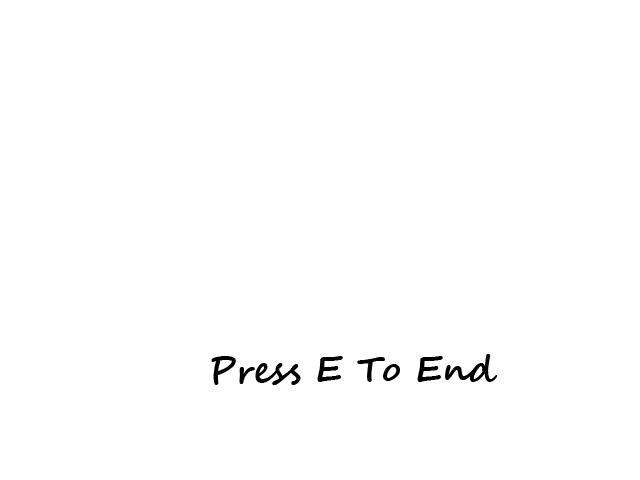
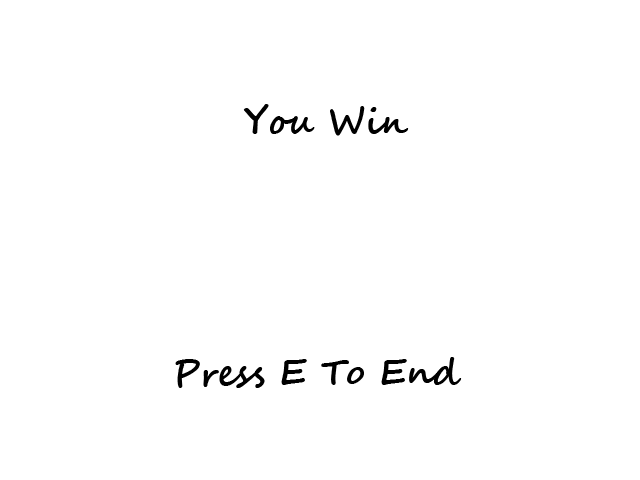
fix actor start facing, modify end words

Changed region(s): [[0.25, 0.7188, 0.7812, 0.8125], [0.375, 0.2188, 0.625, 0.2812]]

diff --git a/GP_hw1/hw03.cpp b/GP_hw1/hw03.cpp
@@ -276,7 +276,7 @@ void FyMain(int argc, char **argv)
 	FnCharacter actor;
 	actor.ID(actorID);
 	pos[0] = 3598.0f; pos[1] = -3907.0f; pos[2] = 1000.0f;
-	fDir[0] = -0.284f; fDir[1] = -0.954f; fDir[2] = -0.1f;
+	fDir[0] = -1.0f; fDir[1] = 0.0f; fDir[2] = 0.0f;
 	uDir[0] = 0.0f; uDir[1] = 0.0f; uDir[2] = 1.0f;
 	actor.SetDirection(fDir, uDir);
 	actor.SetTerrainRoom(terrainRoomID, 10.0f);
@@ -549,9 +549,6 @@ void GameAI(int skip)
 		//slash effect
 		if (skill_camera_timer > 80){
 			FnGameFXSystem gxS(lyfxID);
-			FnObject actorWeapon;
-			//float pos[3];
-			//actor.GetPosition(pos);
 			//gxS.SetPlayLocation(pos);
 			gxS.SetParentObjectForAll(lyfxdumID);
 			gxS.Play((float)skip, ONCE);
